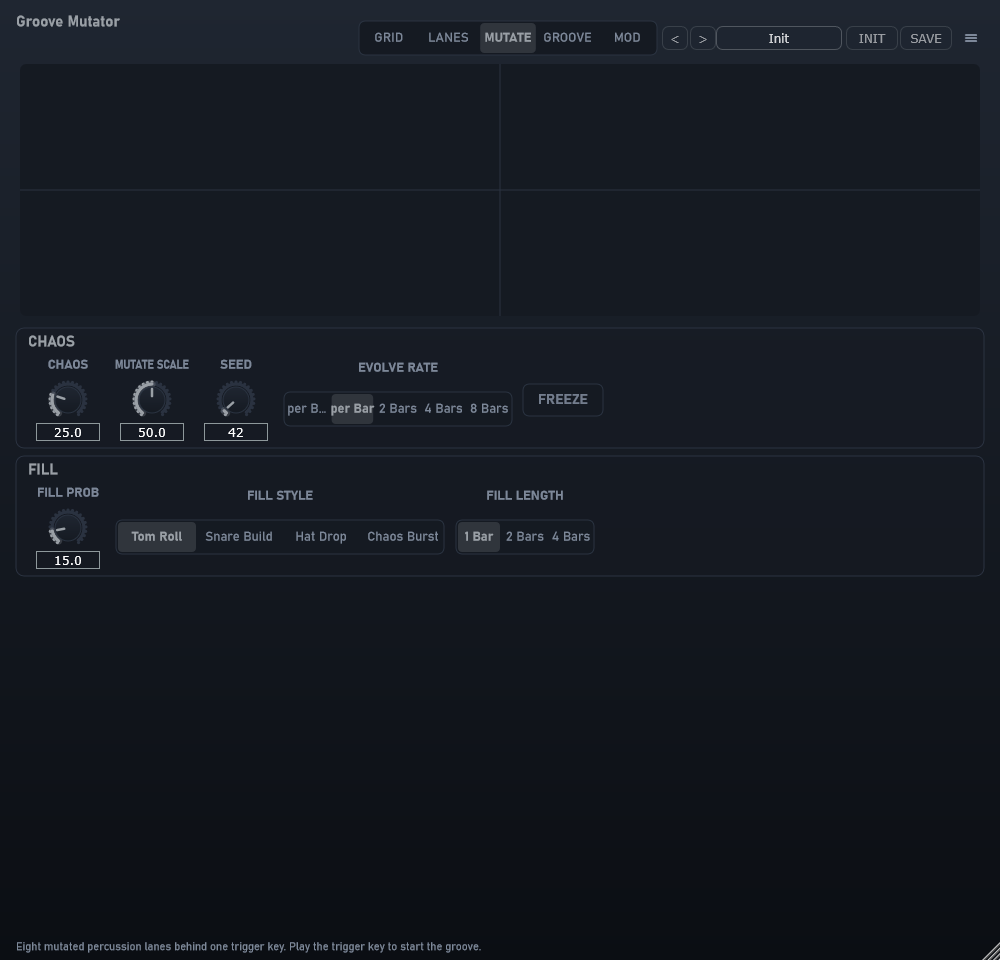
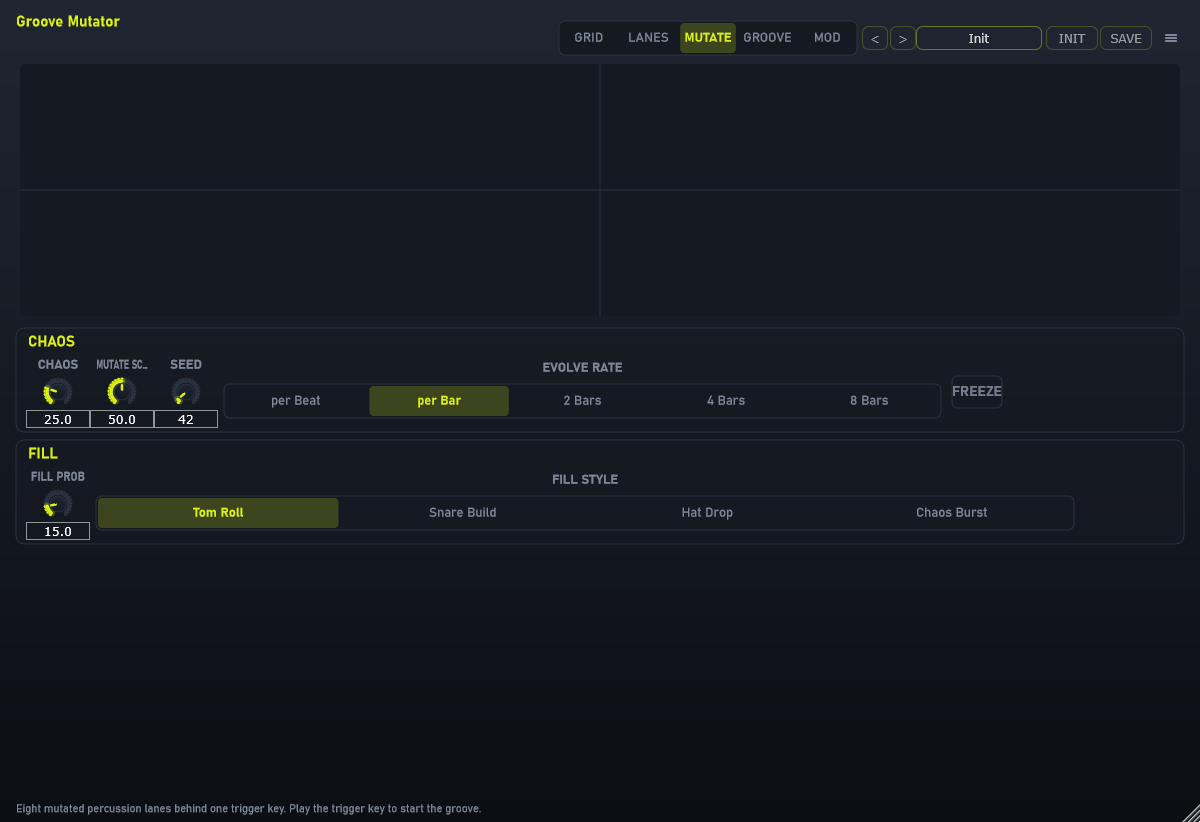
feat(GrooveMutator): update documentation and confirm DAW integration

diff --git a/plugins/GrooveMutator/MANUAL.md b/plugins/GrooveMutator/MANUAL.md
@@ -6,13 +6,14 @@ The plugin code is `GRVM`. The bundle id is `com.audiosuite.groovemutator`.
 
 <img src="../../docs/manuals/groovemutator-grid.png" alt="Groove Mutator GRID page" width="653">
 
-Groove Mutator is a generative rhythm-MIDI instrument. Eight percussion lanes run Euclid,
+Groove Mutator is a generative rhythm instrument. Eight percussion lanes run Euclid,
 hashed or hand-painted step patterns, each in its own grid, and a deterministic mutation
-tick rewrites the patterns while the groove plays. One trigger key (default C2 / MIDI 36)
-starts the groove — **Latch** keeps it running after one press, **Gate** plays only while
-the key is held — and every lane emits notes on one MIDI channel while audio passes through
-untouched. The preset bar (R12) and the hamburger menu (R13) sit in the header; the page
-switch (R8) moves between **GRID, LANES, MUTATE, GROOVE and MOD**. The accent is slate.
+tick rewrites the generative patterns while the groove plays. With **Host Sync** on, the
+groove runs and stops with the host transport; with sync off, one trigger key (default
+C2 / MIDI 36) starts it — **Latch** keeps it running after one press, **Gate** plays only
+while the key is held — and every lane emits notes on one MIDI channel while audio passes
+through untouched. The preset bar (R12) and the hamburger menu (R13) sit in the header; the
+page switch (R8) moves between **GRID, LANES, MUTATE, GROOVE and MOD**. The accent is lemon.
 
 ## Page: GRID
 
@@ -23,7 +24,7 @@ pattern strip (the LaneView) and its sound controls:
 
 | Control | Range | What it does |
 |---|---|---|
-| **Pattern strip** | — | The lane's pattern. A full dot is a hit, a bright dot an accent, a ring a ghost, a double dot a flam — the same hash rules the scheduler uses. The playhead column marks the step the lane is on. In **Steps** mode the strip answers draw mode: click a cell to paint or erase that step (the painted pattern travels with the session). In Euclid and Hash modes the strip is read-only. |
+| **Pattern strip** | — | The lane's pattern. A full dot is a hit, a bright dot an accent, a ring a ghost, a double dot a flam — the same hash rules the scheduler uses. A hollow dot is a fill addition (audible, but not one of your painted steps). The playhead column marks the step the lane is on. In **Steps** mode the strip answers draw mode: click a cell to paint or erase that step (the painted pattern travels with the session). Steps lanes are the authoring mode — Chaos never moves a painted pattern, so the strip always matches what plays. In Euclid and Hash modes the strip shows the live, mutated pattern and is read-only. |
 | **Note** | 24 – 96 | The GM note the lane sends (shown as `C2 (36)`). Defaults walk the drum map: kick, snare, closed/open hat, low/mid tom, clap, claves. |
 | **Velocity** | 30 – 150 % | The lane's velocity share. A modulation target (one per lane). |
 | **Level** | −24 – +12 dB | The lane's level stage: it scales the notes' velocity contribution. |
@@ -53,14 +54,14 @@ The pattern and articulation knobs, four lanes per column:
 | Control | Range | What it does |
 |---|---|---|
 | **Trail** | — | The attractor's phase-space plot: it follows the musical time while the groove runs and feeds the mutation. |
-| **Chaos** | 0 – 100 % | The mutation input: at each tick, every lane whose seeded draw falls under Chaos mutates. A modulation target. |
+| **Chaos** | 0 – 100 % | The mutation input: at each tick, every Euclid or Hash lane whose seeded draw falls under Chaos mutates (Steps lanes are exempt — what you painted is what plays). A modulation target. |
 | **Evolve Rate** | per Beat / per Bar / 2 / 4 / 8 Bars | How often the mutation tick fires, in musical time. |
 | **Mutation Scale** | 0 – 100 % | Picks the operator tier: small drifts first, then swaps, splits, accent flips and whole density re-shapes at 100 %. A modulation target. |
 | **Freeze** | on / off | Locks the current patterns; the tick stops touching them (automatable). |
 | **Seed** | 0 – 999 | The determinism anchor. A change re-derives every lane's pattern. |
 | **Fill Probability** | 0 – 100 % | The chance of a fill on the cycle's last bars. A modulation target. |
 | **Fill Style** | Tom Roll / Snare Build / Hat Drop / Chaos Burst | The fill's shape. Fill hits never collide with an existing hit's note. |
-| **Fill Length** | 1 / 2 / 4 Bars | How much of the cycle the fill can occupy. |
+| **Fill Length** | 1 / 2 / 4 Bars | How much of the cycle the fill can occupy: the last 1, 2 or 4 four-beat bars of the lane's cycle (a cycle shorter than the window is entirely window). |
 
 ## Page: GROOVE
 
@@ -72,8 +73,8 @@ The pattern and articulation knobs, four lanes per column:
 | **Hum Time / Hum Vel** | 0 – 20 ms / 0 – 100 % | Deterministic timing and velocity jitter (the seed decides). Modulation targets. |
 | **Vel Curve** | Flat / Linear / Exponential / Random | Shapes the velocity across each pattern. |
 | **Poly** | 1:1 … 8:7 | Metric modulation: scales every lane's division, so the whole groove falls against the bar. |
-| **Sync** | off / on | On: the grid follows the host's PPQ and tempo (the Micro-Timing Chaos law — a jump re-aligns every lane). Off: the **Tempo** parameter drives the clock; the Tempo knob dims while synced. |
-| **Trigger** | Latch / Gate | Latch starts the groove on one press; Gate runs only while the key is held. |
+| **Sync** | off / on | On: the groove runs and stops with the host transport, and the lane grids follow the host's PPQ and tempo (the Micro-Timing Chaos law — a jump re-aligns every lane). Off: the **Tempo** parameter drives the clock and the trigger key starts the groove; the Tempo knob dims while synced. |
+| **Trigger** | Latch / Gate | The free-clock run source (Host Sync off): Latch starts the groove on one press; Gate runs only while the key is held. While synced, the trigger key is not a run source. |
 | **Key** | 24 – 96 | The trigger key (shown as `C2 (36)`). Every ending path — transport stop, key release, mode change, preset or state load, prepare, releaseResources — sends a note-off for every sounding note first. |
 
 ## Page: MOD
@@ -88,11 +89,12 @@ modulated value live on the GRID, MUTATE and GROOVE pages.
 
 ## Triggering and the clock
 
-With Host Sync on the lane grids follow the host's PPQ: the first step after a start (or a
-relocate) is the next grid boundary, so every hit lands on an absolute grid point of the
-host timeline. With sync off the Tempo parameter runs the clock from the trigger press. The
-reported latency is a fixed 50 ms (the suite's timing budget), so host delay compensation
-stays stable whatever the knobs do.
+With Host Sync on the groove follows the host transport: the transport starts and stops it,
+and the lane grids follow the host's PPQ — the first step after a start (or a relocate) is
+the next grid boundary, so every hit lands on an absolute grid point of the host timeline.
+With sync off the Tempo parameter runs the clock and the trigger key starts and stops the
+groove (Latch or Gate). The reported latency is a fixed 50 ms (the suite's timing budget),
+so host delay compensation stays stable whatever the knobs do.
 
 ## Presets
 

diff --git a/AGENTS.md b/AGENTS.md
@@ -34,7 +34,7 @@ Nine audio plugins written with JUCE 9.0.5 in C++17. Formats: VST3 on Windows an
 | MIDI Chord Arp Scale Tool | `plugins/MidiEffect` | **instrument** (output-only buses, notes out; audio buffer cleared) | `CoreDSP::Chords` (chords, arp patterns, step-clock helpers), `CoreDSP::Sampler::quantizeToScale` | teal `#4ECDC4` |
 | MultiSat | `plugins/MultibandSaturation` (host name "MultiSat"; folder/target/preset ID keep the MultibandSaturation name) | audio effect | `CoreDSP::Multiband::TwoBandSplit`, `CoreDSP::Saturation` shapers/followers | coral `#FF6B6B` |
 | Cyclical | `plugins/Cyclical` | **instrument** (output-only, per-slot notes) | `CoreDSP::Loop` (LoopEngine: regions, crossfaded seams, ping-pong, grains) | tangerine `#FF7A45` (plan 14) |
-| Groove Mutator | `plugins/GrooveMutator` | **instrument** (MIDI effect: output-only buses, notes out, stereo pass-through) | `CoreDSP::Rhythm` (RhythmEngine: euclid/hash/painted patterns, mutation operators, fills) | lemon `#DCF014` (plan 19) |
+| Groove Mutator | `plugins/GrooveMutator` | **instrument** (synth since plan 21 — was `IS_MIDI_EFFECT`; output-only buses, notes out, stereo pass-through, confirmed in the DAW 2026-11-25) | `CoreDSP::Rhythm` (RhythmEngine: euclid/hash/painted patterns, mutation operators, fills) | lemon `#DCF014` (plan 19) |
 - Manufacturer name `FROTH Audio` (shown by hosts; set by `COMPANY_NAME` in `modules/suite_plugin/SuitePlugin.cmake`), manufacturer code `Asui`, bundle IDs `com.audiosuite.<name>` (kept: they are part of the plugin identity, section 7).
 - Plugin code `Sgrf`. Codes and parameter IDs are saved in sessions
 
@@ -654,7 +654,7 @@ MTC's `lerpCurve` state property (not a parameter) round-trips through presets a
 
 ## 6. Test architecture
 
-Thirty-one CTest entries (bank build) run twenty-three executables: `CoreDSPTests` (47 test functions), `SuiteStateTests` (9), `SuiteUI_Tests` (`SuiteUITests`, 13), `SuiteModulation_Tests` (`SuiteModulationTests`, 10), `SuiteSettingsTests` (`SuiteSettingsTests`, 9), `SpectralDriftTests` (30), `DynamicSaturationTests` (25), `MicroTimingChaosTests` (47), `SgraffitoTests` (55), `StereoToolTests` (19), `MidiEffectTests` (23), `MultibandSaturationTests` (10), `CyclicalTests` (24), `GrooveMutatorTests` (18), and `PluginHostTests`, which has one ctest entry per plugin (8). With the factory bank on, nine preset-test executables join them (one per plugin: SpectralDrift, DynamicSaturation, MicroTimingChaos, Sgraffito, MidiEffect, StereoTool, MultibandSaturation, Cyclical and GrooveMutator). The README has the full list.
+Thirty-one CTest entries (bank build) run twenty-three executables: `CoreDSPTests` (47 test functions), `SuiteStateTests` (9), `SuiteUI_Tests` (`SuiteUITests`, 13), `SuiteModulation_Tests` (`SuiteModulationTests`, 10), `SuiteSettingsTests` (`SuiteSettingsTests`, 9), `SpectralDriftTests` (30), `DynamicSaturationTests` (25), `MicroTimingChaosTests` (47), `SgraffitoTests` (55), `StereoToolTests` (19), `MidiEffectTests` (23), `MultibandSaturationTests` (10), `CyclicalTests` (24), `GrooveMutatorTests` (19), and `PluginHostTests`, which has one ctest entry per plugin (8). With the factory bank on, nine preset-test executables join them (one per plugin: SpectralDrift, DynamicSaturation, MicroTimingChaos, Sgraffito, MidiEffect, StereoTool, MultibandSaturation, Cyclical and GrooveMutator). The README has the full list.
 
 **Module tests** (`modules/suite_modulation/tests/SuiteModulationTests.cpp`): the router, with a stub processor (no plugin). They cover the routed LFO, the zero case (bit for bit), bipolar amounts, whole-number targets, Host Sync ignoring Tempo, the one-bar period, sample and hold, out-of-range indices, and the control display (values set without notifying), plus the modulation panel's preferred height (every child stays inside it; plan 10 phase 9). Not covered: the control display skipping a slider the mouse holds, since the test cannot press a mouse button. The panel and scope are checked only by the MicroTimingChaos editor test.
 

diff --git a/docs/plans/21_groovemutator-review.md b/docs/plans/21_groovemutator-review.md
@@ -10,8 +10,9 @@ GRID/LANES/MUTATE pages (window 1000 → 1200 wide) recorded in the untracked
 `groovemutator_owner_findings.md` (root). Every file/line reference below is against that
 tree and must be re-checked before acting (plans move; so does the code).
 
-Status: **Phases 0–2, 4 and the C3 decision executed 2026-11-25**, verified 31/31 CTest and
-19/19 GrooveMutatorTests; renders under `build/renders/plan21-fixed/` and `plan21-c3/`. C3 is
+Status: **Phases 0–4 executed and Phase 3 confirmed by the owner 2026-11-25**, verified
+31/31 CTest and 19/19 GrooveMutatorTests; renders under `build/renders/plan21-fixed/` and
+`plan21-c3/`. C3 is
 resolved the owner's way: Steps lanes are exempt from mutation (the painted pattern is the
 audible truth), fills stay live on them, and the LaneView draws a Steps lane's fill additions
 as hollow dots (`laneFillMask`, the same message-thread read precedent as `laneMask`). Two
@@ -19,10 +20,10 @@ plan-19 bugs fell out of the C3 test and are fixed: the Fill Length choice index
 as a bar count ("1 Bar" = the default — disabled fills entirely; now
 `CoreDSP::Rhythm::fillBarCount`, 1 << index), and **eleven 0–100 % parameter reads clamped
 to [0, 1] before the /100**, so Accent/Ghost/Flam/Chaos/Mutation Scale/Fill Probability/
-Humanise Velocity were all 0–1 % knobs (CHANGELOG has the list). Still open: Phase 3 (the
-`IS_SYNTH`/pass-through DAW check — note the clamp fix changes what the DAW tests will hear:
-the defaults now behave as labelled), Phase 5 (MANUAL.md + its committed screenshots, the
-root findings doc; the AGENTS §4.9 rows are updated).
+Humanise Velocity were all 0–1 % knobs (CHANGELOG has the list). Phase 3 is the owner's DAW
+confirmation (the `IS_SYNTH` declaration loads and the stereo pass-through holds; recorded
+in AGENTS §1). Still open: Phase 5 (MANUAL.md + its committed screenshots, and the root
+findings doc; the AGENTS §1/§4.9/§6 rows are updated).
 
 ---
 
@@ -165,13 +166,14 @@ Gate: none — the decision is recorded. Phase 2 may start.
    MUTATE, GROOVE, MOD must be unchanged); the owner approves the measured window size
    (R4).
 
-## Phase 3 — Plugin identity and pass-through (A3)
+## Phase 3 — Plugin identity and pass-through (A3) — **CONFIRMED by the owner 2026-11-25**
 
-7. Confirm with the owner that `IS_SYNTH` is the intent (the DAW-scanner remedy).
-8. Extend the host test (or a new plugin test) to assert the audio pass-through still
-   holds with the synth declaration, and record in AGENTS §4.9 what a DAW does with the
-   input bus. Flag to the owner that a real-DAW check (Ableton, after a **full rescan** —
-   the plan-18 cache lesson) is needed; it cannot be verified here.
+7. `IS_SYNTH` is confirmed: the DAW check passed (the plugin loads and the stereo
+   pass-through holds with the synth declaration). Recorded in AGENTS §1's plugin table.
+8. The JUCE host test `GrooveMutator_VST3_HostLoad` and `testPassThrough` both pass against
+   the synth build. Note for the Ableton rescan rule: the parameter count is unchanged by
+   this plan (159), so no forced rescan is needed — a fresh instance is enough to pick up
+   the clamp/behaviour fixes.
 
 ## Phase 4 — Hygiene
 

diff --git a/CHANGELOG.md b/CHANGELOG.md
@@ -13,7 +13,7 @@ All notable changes to this project are documented here. The format follows
   - **Steps lanes are the authoring mode**: the mutation operators no longer touch a painted pattern (Chaos mutates only the Euclid/Hash kinds; the plan-19 rederive rules are unchanged), and the LaneView draws a Steps lane's fill additions as hollow dots, so the strip matches what plays.
   - **Fill Length means what it says**: the Fill Length choice index was passed to the fill window as a bar count, so "1 Bar" (the default) disabled fills entirely and "2 Bars"/"4 Bars" gave 1/2-bar windows. The mapping is now `CoreDSP::Rhythm::fillBarCount` (1 << index). Note this activates fills at the default settings: the INIT groove's tail can add hits at Fill Probability 15 %.
   - **Every 0–100 % parameter was effectively a 0–1 % knob** (found by the new fill test): eleven reads clamped the parameter to `[0, 1]` *before* dividing by 100 — Accent, Ghost, Flam, Chaos, Mutation Scale, Fill Probability and Humanise Velocity all saturated at 1 %, so anything above 1 % behaved identically (e.g. Fill Probability 100 % computed a 1 % chance). The clamps now use each parameter's real range (`[0, 100]`). This makes the defaults audible as designed: Accent 30 %, Ghost 10 %, Chaos 25 %, Fill Probability 15 %.
-  - The mojibake comment encodings in the processor and tests are repaired (proper UTF-8), and the dead `reducedKnobDiameter`/`stripHeightBounds` editor members are gone. The `IS_SYNTH` declaration (was `IS_MIDI_EFFECT`, the DAW-scanner remedy) stays; the DAW pass-through check is still open.
+  - The mojibake comment encodings in the processor and tests are repaired (proper UTF-8), and the dead `reducedKnobDiameter`/`stripHeightBounds` editor members are gone. The `IS_SYNTH` declaration (was `IS_MIDI_EFFECT`, the DAW-scanner remedy) is confirmed in the DAW 2026-11-25 — the stereo pass-through holds.
 
 ### Added
 - Plan 19 — **Groove Mutator**, the ninth plugin (`plugins/GrooveMutator`, code `GRVM`), implemented and verified (31/31 CTest, the bank at 289):

diff --git a/docs/plans/README.md b/docs/plans/README.md
@@ -28,7 +28,7 @@ observations in them stay recoverable from git history.
 | # | File | Status | Why here | Gate before the next step |
 |---|---|---|---|---|
 | 19 | [19_groove-mutator.md](19_groove-mutator.md) | Approved concept; detailed implementation plan written 2026-11-23, refined 2026-11-24 ([19_groove-mutator-concept.md](19_groove-mutator-concept.md) holds the idea record) | New plugin: Groove Mutator, a generative rhythm-MIDI instrument (8 percussion lanes, euclidean + hashed patterns, Lorenz-driven mutation, fills, polyrhythm) | Build starts when the owner says go |
-| 21 | [21_groovemutator-review.md](21_groovemutator-review.md) | Created 2026-11-25 from the implementation review; Phase 1 decided same day (the sequencer runs from the host transport when synced, or the trigger when free — the `play` parameter goes) | Fixes from the review: the half-wired `play` parameter (UB cast, never read), the GRID page layout overflow, the `IS_SYNTH`/pass-through question, stale AGENTS/manual docs, encoding damage | Phase 0's render confirms the GRID overflow before the layout fix |
+| 21 | [21_groovemutator-review.md](21_groovemutator-review.md) | Executed 2026-11-25 through Phase 4 and the C3 decision (Phase 1: the sequencer runs from the host transport when synced, or the trigger when free — `play` removed; Phase 3: `IS_SYNTH` + pass-through confirmed in the DAW). Found and fixed two plan-19 bugs: "1 Bar" Fill Length disabled fills, and eleven 0–100 % parameters were clamped to 1 % | The GRID-page overflow, the half-wired `play` parameter, the Steps-mode display gap, the fill-window mapping and the 1 %-clamp bug are fixed; 31/31 CTest, 19/19 GrooveMutatorTests | Phase 5 remains: MANUAL.md + its committed screenshots, and the root findings doc |
 | 6.1_review | [6.1_review.md](6.1_review.md) | Reference, created 2026-11-19 | Review of the Cyclical creative-enhancement work: loop loading sources, playback modes, test coverage and known issues. | None |
 
 ## Rules for executing a plan
